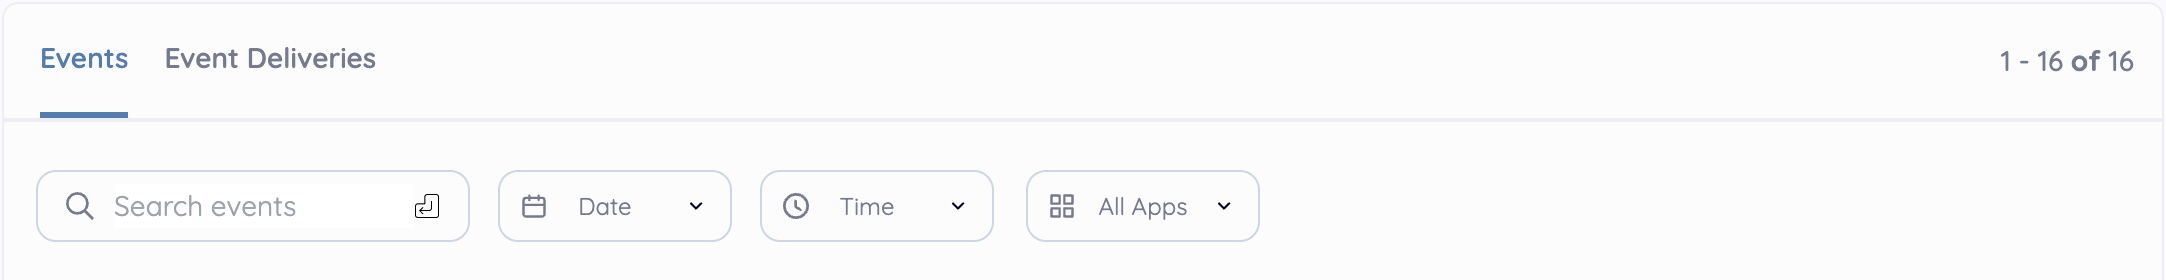
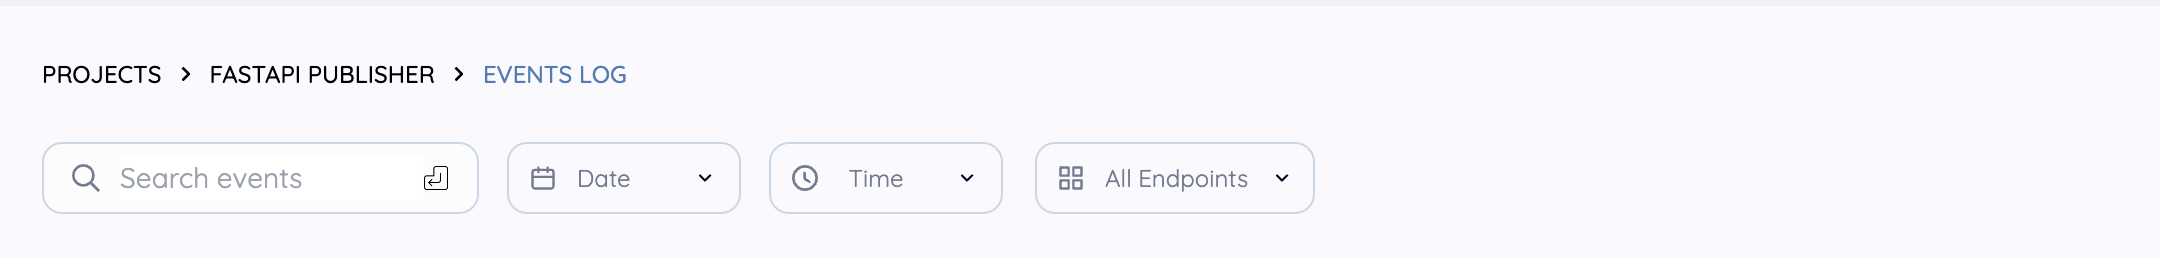
Deprecate app docs.

diff --git a/content/docs/getting-started/sending/convoy-api.md b/content/docs/getting-started/sending/convoy-api.md
@@ -3,37 +3,24 @@ title: Convoy API
 description: "Send webhook event with Convoy API"
 id: convoy-api
 ---
-Sending webhooks with the API does not require a client setup like the SDKs. The API key retrieved from your dashboard will be added in the Authorization header.
+Sending webhooks with the API does not require a client setup like the SDKs. The API key retrieved from your dashboard will be added to the Authorization header and the project ID will be added to the request URL.
 
-## Create an application
+## Create an endpoint
 
-An application represents a user's application trying to receive webhooks. Once you create an application, you'll receive a `uid` as part of the response that you should save and supply in subsequent API calls to perform other requests such as creating an event.
+An endpoint is a specific destination that can receive webhook events. Once you create an endpoint, you'll receive a `uid` as part of the response that you should save and supply in subsequent API calls to perform other requests such as creating an event.
 
 ```console[terminal]
 curl --request POST \
-  --url https://dashboard.getconvoy.io/api/v1/applications \
+  --url https://dashboard.getconvoy.io/api/v1/projects/<project-id>/endpoints \
   --header 'Authorization: Bearer <api-key>' \
   --header 'Content-Type: application/json' \
-  --data '{
-  "is_disabled": false,
-  "name": "Convoy app name placeholder"
-}'
-```
-
-After creating an application, you'll need to add an endpoint to the application you just created. An endpoint represents a target URL to receive events.
-
-### Add application endpoint
-
-```terminal[console]
-curl --request POST \
-  --url https://dashboard.getconvoy.io/api/v1/applications/<app-id>/endpoints \
-  --header 'Authorization: Bearer <api-key>' \
-  --header 'Content-Type: application/json' \
-  --data '{
-  "description": "Endpoint description",
-  "http_timeout": "10s",
-  "url": "http://localhost:1001"
-}'
+  --data '
+    {
+      "name": "Convoy endpoint",
+      "description": "Endpoint description",
+      "http_timeout": "10s",
+      "url": "https://webhook.site/40984a4e-7b36-41fb-a234-9c2006bac8b5"
+  }'
 ```
 
 The next step is to create a subscription to the webhook source. Subscriptions are the conduit through which events are routed from a source to a destination on Convoy.
@@ -42,13 +29,12 @@ The next step is to create a subscription to the webhook source. Subscriptions a
 
 ```console[example]
 curl --request POST \
-  --url https://dashboard.getconvoy.io/api/v1/subscriptions \
+  --url https://dashboard.getconvoy.io/api/v1/projects/<project-id>/subscriptions \
   --header 'Authorization: Bearer <api-key>' \
   --header 'Content-Type: application/json' \
   --data '{
-  "app_id": "<your app ID>",
-  "endpoint_id": "<your endpoint ID>",
-  "name": "Subscription name"
+    "endpoint_id": <endpoint-id>,
+    "name": "Subscription name"
 }'
 ```
 
@@ -59,7 +45,7 @@ To send an event, you'll need the `uid` from the application you created earlier
 
 ```terminal[console]
 curl --request POST \
-  --url https://dashboard.getconvoy.io/api/v1/events \
+  --url https://dashboard.getconvoy.io/api/v1/projects/<project-id>/events \
   --header 'Authorization: Bearer <api-key>' \
   --header 'Content-Type: application/json' \
   --data '{
@@ -78,6 +64,6 @@ curl --request POST \
 
 ## Cheers! 🎉
 
-You have sucessfully created a Convoy application to send events to your configured endpoint.
+You have successfully created a Convoy application to send events to your configured endpoint.
 
 The complete API reference can be viewed and interacted with on [Readme](https://convoy.readme.io).

diff --git a/content/docs/glossary.md b/content/docs/glossary.md
@@ -13,13 +13,7 @@ This section collects brief definitions of some of the technical terms used in t
 
 ## Groups
 
-Groups are used to create logical contexts or separate environments (dev, staging & production). Different groups can also be created for different teams each with their own login details on the same convoy deployment.
-
-## Applications
-
-An application represents a user's application trying to receive webhooks. Once you create an application on Convoy, you receive an `app_id` that you should save and supply in subsequent API calls to perform other actions E.g. Send an event. Currently, an application maps to one endpoint. 
-
-In the future, an application should map to multiple endpoints. When you're creating an application, you should supply a [secret](#secrets).
+Groups are used to create logical contexts or separate environments (dev, staging & production). Different groups can also be created for different teams each with its own login details on the same convoy deployment.
 
 ## Endpoints
 
@@ -31,7 +25,7 @@ An event represents a specific event triggered by your system. Convoy persists e
 
 ## Event delivery
 
-An event delivery is resource that tracks successive attempts to deliver the event payload to each application endpoint. Multiple event deliveries can be created for a single event, this is influenced by the number of subscriptions that are matched to it.
+An event delivery is resource that tracks successive attempts to deliver the event payload to each endpoint. Multiple event deliveries can be created for a single event, this is influenced by the number of subscriptions that are matched to it.
 
 ## Event Types
 
@@ -81,11 +75,11 @@ We adopt a time-based release schedule.  A new release is created on the 25th of
 
 ## Rate Limiting Endpoints
 
-While you are guaranteed you'll be able to receive events as fast as possible using convoy, your customers might not be able to handle events coming to their systems at the same rate which might cause a disruption of service on their end.  You can control the number events you want to send to an application's endpoint by setting a rate limit and a rate limit duration on each endpoint. The default is `5000` in `1m` i.e. 5,000 requests per minute.
+While you are guaranteed you'll be able to receive events as fast as possible using convoy, your customers might not be able to handle events coming to their systems at the same rate which might cause a disruption of service on their end.  You can control the number events you want to send to an endpoint by setting a rate limit and a rate limit duration on each endpoint. The default is `5000` in `1m` i.e. 5,000 requests per minute.
 
 ## Retry Schedule
 
-When an application's endpoint is experiencing temporary disruption of service, events sent to them might fail requiring you to retry them. Convoy allow you to set the number of attempts to a particular endpoint and how to initiate the retry. Convoy supports two retry strategies
+When an endpoint is experiencing temporary disruption of service, events sent to them might fail to require you to retry them. Convoy allow you to set the number of attempts to a particular endpoint and how to initiate the retry. Convoy supports two retry strategies
 - `default`: retries are done in linear time. It's best to set a reasonable number of attempts if the duration is short.
 - `exponential-backoff`:  retries events while progressively increasing the time before the next attempt. The default schedule looks like this:
 	-	10 seconds

diff --git a/content/docs/manual/events-and-event-deliveries.md b/content/docs/manual/events-and-event-deliveries.md
@@ -7,25 +7,27 @@ order: 5
 
 # Events
 
-Events are all the webhook events pushed to Convoy via any of the available sources. They do not have a status and do not contain delivery attempts. It is only a log of events published to Convoy.
-
-Event delivery is a resource that tracks successive attempts to deliver the event payload to each application endpoint. Multiple event deliveries can be created for a single event, this is influenced by the number of subscriptions that are matched to it.
-
-Here's how the event log looks like:
+Events are all the webhook events pushed to Convoy via any of the available sources. They do not have a status and do not contain delivery attempts. It is only a log of events published to Convoy. The events log page can be accessed from the sidebar.
 ![convoy event log](/docs-assets/event-log.png)
 
-## Debugging Webhook Events
+## Event delivery
+
+Event delivery is a resource that tracks successive attempts to deliver the event payload to each application endpoint. Multiple event deliveries can be created for a single event, this is influenced by the number of subscriptions that are matched to it. Event deliveries can be viewed on the **Events** page:
+
+![Event delivery](/docs-assets/event-delivery.png)
+
+## Debugging webhook events
 
 For the most part, building a webhooks dashboard requires building the tools for finding and solving problems easily, this requires the ability to quickly find the affected payload, application, endpoint and most importantly affected customer. 
 
 There are 2 ways to debug events in Convoy:
 
-### Event Filtering
+### Event filtering
 
-You can filter events and event deliveries by date time, apps and DateTime, Status, Apps respectively. 
+You can filter events and event deliveries by date, time, status and endpoints respectively. 
 ![convoy event filter](/docs-assets/event-filter.png)
 
-### Event Search
+### Event search
 
 When properly configured with a search backend, Convoy indexes the entire webhook payload this enables you to search the entire payload for any value in any field. This enables you to drill down the issue faster than ever and find the impacted customer and offending endpoints.
 ![convoy event search](/docs-assets/event-search.png)

diff --git a/content/docs/manual/endpoints.md b/content/docs/manual/endpoints.md
@@ -1,0 +1,25 @@
+---
+title: Endpoints
+description: 'Describe endpoints in Convoy'
+id: endpoints
+order: 3
+---
+
+Endpoints
+======
+
+## Endpoint
+
+An endpoint is a specific destination that can receive webhook events. An endpoint can be configured with `http_timeout`. Endpoints can be managed over the API and the dashboard.
+
+### Endpoint authentication
+
+Endpoint authentication is a scenario where the endpoint owner needs to specify an authentication mechanism separate from signatures to validate the webhook origin. New and existing endpoints can now require an API Key to authenticate against the endpoint. In the future, we hope to support more authentication mechanisms.
+
+![Endpoint authentication](/docs-assets/endpoint-auth.png)
+
+## Portal links
+
+A [portal link](/docs/manual/portal-link) is used to generate a mini-event dashboard to display information on an endpoint's event deliveries. The portal link serves as a medium to quickly generate portals for users to review and debug events from a publisher.
+
+![Dashboard spun from a portal link](/docs-assets/portal-event-deliveries.png)

diff --git a/content/docs/manual/portal-links.md b/content/docs/manual/portal-links.md
@@ -1,0 +1,26 @@
+---
+title: Portal Links
+description: 'Describe what portal links are and how to create one.'
+id: portal-links
+order: 6
+---
+
+# Portal links
+
+A portal link is used to generate a mini-event dashboard to display information on an endpoint's event deliveries. The portal link serves as a medium to quickly generate portals for users to review and debug events from a publisher.
+
+![Portal links](/docs-assets/portal-link.png)
+
+A portal link can be created for one or more endpoints.
+
+![Create portal link](/docs-assets/create-portal-link.png)
+
+Once a portal link is created, the link can be copied from the same page or the portal links page.
+
+![New portal link](/docs-assets/new-portal-link.png)
+
+![Portal links page](/docs-assets/portal-links.png)
+
+The event deliveries associated with the endpoint are listed. These events can be filtered, retried and expanded upon to view more details.
+
+![Dashboard spun from a portal link](/docs-assets/portal-event-deliveries.png)

diff --git a/content/docs/manual/sources.md b/content/docs/manual/sources.md
@@ -8,11 +8,11 @@ order: 11
 Sources
 ======
 
-Sources are how events are routed into the system. In this segment we discuss the various types of sources and their use-cases. Convoy currently supports two types of sources: REST API sources and HTTP Ingested sources.
+Sources are how events are routed into the system. In this segment we discuss the various types of sources and their use cases. Convoy currently supports two types of sources: REST API sources and HTTP Ingested sources.
 
 ## REST API
 
-This is an authenticated API to push events to a Convoy instance. It is designed for an outgoing event project to push events to a specific application. This source is only and automatically available for all outgoing projects.
+This is an authenticated API to push events to a Convoy instance. It is designed for an outgoing event project to push events to a specific endpoint. This source is only and automatically available for all outgoing projects.
 
 ## HTTP Ingestion
 

diff --git a/content/docs/getting-started/sending-webhook-example.md b/content/docs/getting-started/sending-webhook-example.md
@@ -7,6 +7,6 @@ order: 6
 
 # Sending Your First Webhook Event With Convoy
 
-In this guide, you'll learn how to deploy your first webhook event with Convoy. You'll be making use of a project API key which can be generated by creating a project from your [dashboard](https://dashboard.getconvoy.io).
+In this guide, you'll learn how to deploy your first webhook event with Convoy. You'll be making use of your project API key which can be generated by creating a project from your [dashboard](https://dashboard.getconvoy.io). You'll also need your project ID which can be retrieved from your **Project Settings** page.
 
 <send-tab>
